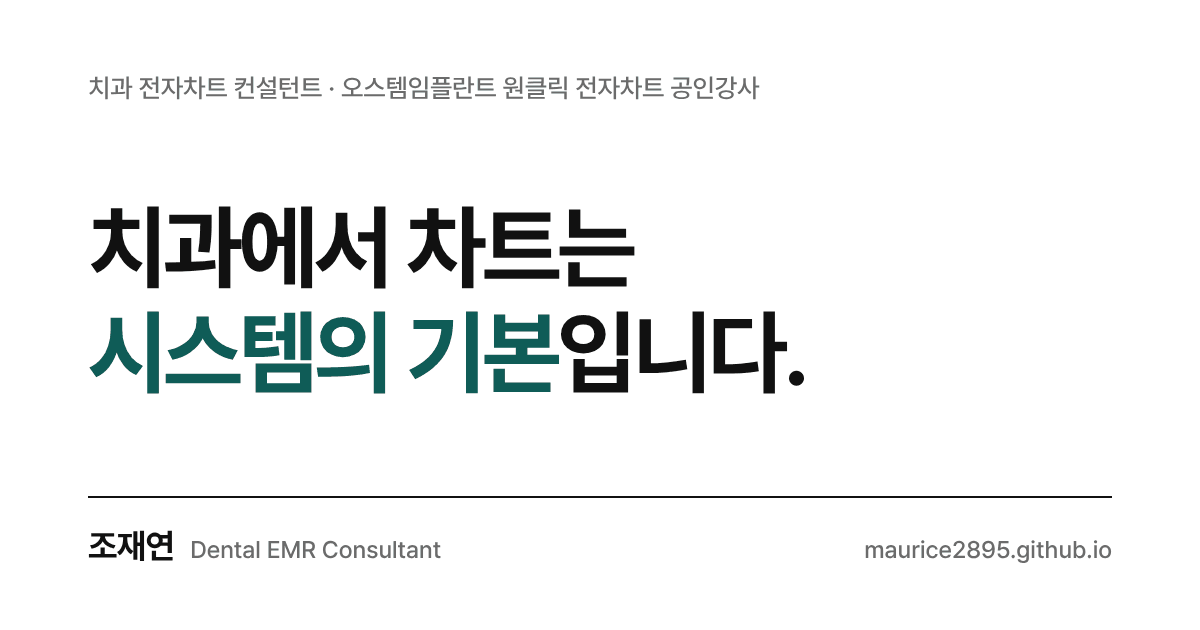
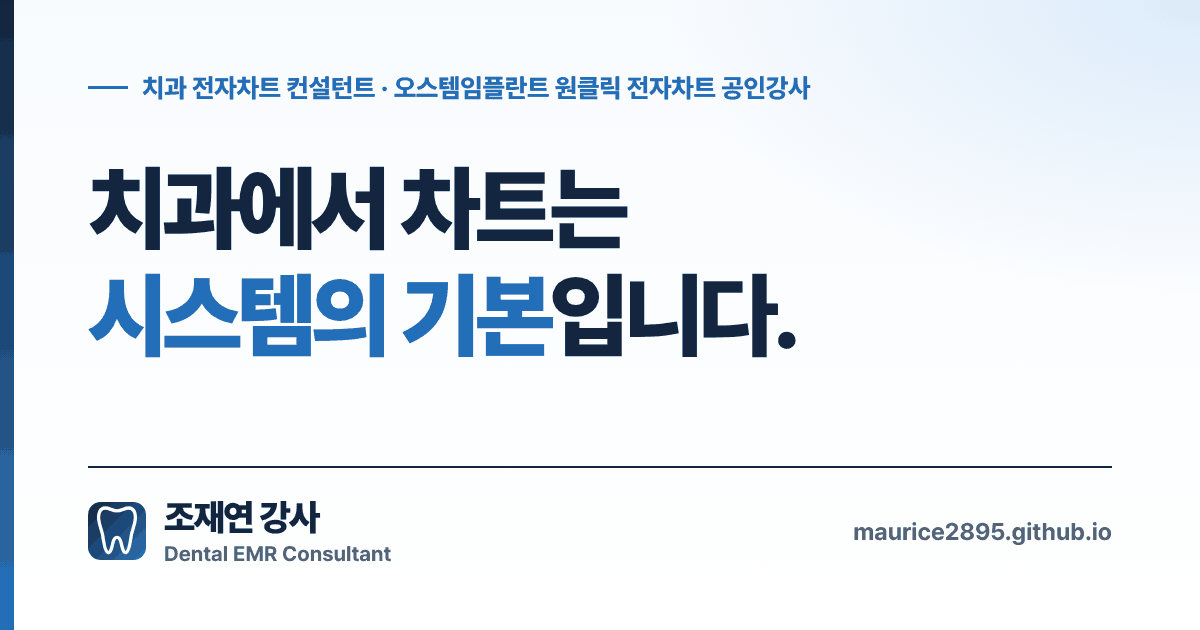
브랜드 아이콘·공유 이미지 통일, 외부 링크 정비, 홈 문구 보완

diff --git a/index.html b/index.html
@@ -19,19 +19,20 @@
 <meta property="og:url" content="https://maurice2895.github.io/">
 <meta property="og:title" content="조재연 강사 | 치과 전자차트 컨설턴트">
 <meta property="og:description" content="치과 총괄부장 실무 경험, 오스템임플란트 원클릭 전자차트 공인강사. 전자차트 · 직원 교육 · 업무 표준화 · AI 업무 활용.">
-<meta property="og:image" content="https://maurice2895.github.io/og-image.png">
+<meta property="og:image" content="https://maurice2895.github.io/og-image.png?v=20261102">
 <meta property="og:image:width" content="1200">
 <meta property="og:image:height" content="630">
 <meta property="og:image:alt" content="조재연 강사 — 치과 전자차트 컨설턴트 · 오스템임플란트 원클릭 전자차트 공인강사">
 <meta name="twitter:card" content="summary_large_image">
 <meta name="twitter:title" content="조재연 강사 | 치과 전자차트 컨설턴트">
 <meta name="twitter:description" content="치과 총괄부장 실무 경험, 오스템임플란트 원클릭 전자차트 공인강사. 전자차트 · 직원 교육 · 업무 표준화 · AI 업무 활용.">
-<meta name="twitter:image" content="https://maurice2895.github.io/og-image.png">
-<link rel="icon" href="/favicon-32.png" type="image/png" sizes="32x32">
+<meta name="twitter:image" content="https://maurice2895.github.io/og-image.png?v=20261102">
+<link rel="icon" href="/favicon.ico" sizes="any">
+<link rel="icon" href="/favicon.svg" type="image/svg+xml">
 <link rel="apple-touch-icon" href="/apple-touch-icon.png">
 <link rel="preconnect" href="https://cdn.jsdelivr.net" crossorigin>
 <link rel="stylesheet" href="https://cdn.jsdelivr.net/gh/orioncactus/pretendard@v1.3.9/dist/web/variable/pretendardvariable-dynamic-subset.min.css">
-<link rel="stylesheet" href="/site.css?v=202611012307">
+<link rel="stylesheet" href="/site.css?v=202611020057">
 <script type="application/ld+json">{
  "@context": "https://schema.org",
  "@graph": [
@@ -117,25 +118,25 @@
    "about": {
     "@id": "https://maurice2895.github.io/#person"
    },
-   "dateModified": "2026-11-01",
+   "dateModified": "2026-11-02",
    "primaryImageOfPage": {
     "@type": "ImageObject",
-    "url": "https://maurice2895.github.io/og-image.png",
+    "url": "https://maurice2895.github.io/og-image.png?v=20261102",
     "width": 1200,
     "height": 630
    }
   }
  ]
 }</script>
-<script src="/site.js?v=202611012307" defer></script>
-<script src="/security.js?v=202611012307" defer></script>
+<script src="/site.js?v=202611020057" defer></script>
+<script src="/security.js?v=202611020057" defer></script>
 </head>
 <body>
 <a class="skip-link" href="#main">본문 바로가기</a>
 <header class="header">
   <div class="wrap header-in">
     <a class="brand" href="/" aria-label="조재연 강사 홈">
-      <span class="brand-mark" aria-hidden="true">D</span>
+      <span class="brand-mark" aria-hidden="true"><svg viewBox="0 0 64 64" aria-hidden="true"><path d="M 19 6.6 C 13.8 6.6 11.2 11.8 11.72 18.3 C 12.24 24.8 14.32 28.7 15.88 35.2 C 17.44 43 17.96 53.4 21.6 55.48 C 24.72 57.3 26.28 50.8 27.32 45.6 C 28.36 40.92 29.92 39.1 32 39.1 C 34.08 39.1 35.64 40.92 36.68 45.6 C 37.72 50.8 39.28 57.3 42.4 55.48 C 46.04 53.4 46.56 43 48.12 35.2 C 49.68 28.7 51.76 24.8 52.28 18.3 C 52.8 11.8 50.2 6.6 45 6.6 C 40.32 6.6 37.2 9.72 32 9.72 C 26.8 9.72 23.68 6.6 19 6.6 Z"/></svg></span>
       <span class="brand-text"><strong>조재연 강사</strong><small>덴탈솔브 · 치과 전자차트 컨설팅</small></span>
     </a>
     <nav class="site-nav" id="site-nav" aria-label="주요 메뉴">
@@ -248,7 +249,7 @@
     <div class="signal-grid">
       <article class="signal"><span>01</span><strong>직원마다 차팅 방식이 다릅니다.</strong><p>같은 진료인데 기록 내용과 입력 순서가 달라집니다.</p></article>
       <article class="signal"><span>02</span><strong>필요한 처치 버튼을 찾기 어렵습니다.</strong><p>버튼이 많고 기준이 불분명해 입력 시간이 길어집니다.</p></article>
-      <article class="signal"><span>03</span><strong>남겨야 할 진료 기록이 빠집니다.</strong><p>처치 후 기록해야 할 항목이 직원마다 빠지거나 달라집니다.</p></article>
+      <article class="signal"><span>03</span><strong>진료 기록과 청구에서 누락이 생깁니다.</strong><p>처치 버튼과 실제 치료 술식이 맞지 않으면 차팅과 청구에서 빠지는 항목이 생깁니다.</p></article>
       <article class="signal"><span>04</span><strong>신규 직원 교육이 매번 달라집니다.</strong><p>누가 가르치는지에 따라 안내 내용과 업무 방식이 달라집니다.</p></article>
       <article class="signal"><span>05</span><strong>업무 자료가 여러 곳에 흩어져 있습니다.</strong><p>업무 일지, 재료 대장, 회의록과 교육자료를 찾는 데 시간이 듭니다.</p></article>
       <article class="signal"><span>06</span><strong>반복 문서 작성과 확인 업무가 많습니다.</strong><p>회의 정리, 안내문, 보고서 작성에 같은 작업을 반복합니다.</p></article>
@@ -400,9 +401,10 @@
       </article>
     </div>
     <div class="center-row">
-      <a class="btn" href="https://www.dentalbean.com/product/productDetail.aspx?_prKey=5093" target="_blank" rel="noopener noreferrer">덴탈빈 강의 상세 보기 <span class="arrow" aria-hidden="true">↗</span><span class="sr-only">(새 창)</span></a>
+      <a class="btn" href="https://www.dentalbean.com/product/productDetail.aspx?_prKey=5093" target="_blank" rel="noopener noreferrer">덴탈빈 온라인 강의 보기 <span class="arrow" aria-hidden="true">↗</span><span class="sr-only">(새 창)</span></a>
       <a class="btn btn-primary" href="https://open.kakao.com/o/sYHWsSLi" target="_blank" rel="noopener noreferrer">교육 문의하기 <span class="arrow" aria-hidden="true">↗</span><span class="sr-only">(새 창)</span></a>
     </div>
+    <p class="note center-note">덴탈빈 온라인 강의 「원클릭 전자차트 ‘매출과 효율’을 동시에 잡는 법」(총 5강). 상세 페이지가 열리지 않으면 덴탈빈 사이트에서 ‘원클릭’으로 검색해 주세요.</p>
   </div>
 </section>
 
@@ -416,13 +418,13 @@
       </div>
     </div>
     <div class="resource-grid">
-      <a class="resource" href="https://software.denall.com/" target="_blank" rel="noopener noreferrer">
+      <a class="resource" href="https://software.denall.com/manual" target="_blank" rel="noopener noreferrer">
         <span class="resource-logo"><img src="/images/oneclick-logo.webp" alt="오스템 원클릭 로고" width="260" height="119" loading="lazy" decoding="async"></span>
         <div>
           <span class="lecture-tag">ONECLICK · OFFICIAL GUIDE</span>
           <h3>원클릭 전자차트 매뉴얼</h3>
-          <p>원클릭 전자차트의 공식 사이트에서 기능과 사용 안내를 확인하세요.</p>
-          <span class="card-link">매뉴얼 사이트 열기 ↗<span class="sr-only">(새 창)</span></span>
+          <p>오스템임플란트 소프트웨어 사이트의 매뉴얼 게시판에서 원클릭 튜토리얼과 사용 안내를 확인하세요.</p>
+          <span class="card-link">매뉴얼 게시판 열기 ↗<span class="sr-only">(새 창)</span></span>
         </div>
       </a>
       <a class="resource" href="https://www.dentweb.co.kr/Home/Tutorial" target="_blank" rel="noopener noreferrer">
@@ -430,8 +432,8 @@
         <div>
           <span class="lecture-tag">DENTWEB · TUTORIAL</span>
           <h3>덴트웹 전자차트 매뉴얼</h3>
-          <p>덴트웹 전자차트의 기능별 사용 방법과 튜토리얼을 확인하세요.</p>
-          <span class="card-link">매뉴얼 바로가기 ↗<span class="sr-only">(새 창)</span></span>
+          <p>덴트웹 사이트에서 동영상 설명서와 문서 설명서를 확인하세요.</p>
+          <span class="card-link">설명서 바로가기 ↗<span class="sr-only">(새 창)</span></span>
         </div>
       </a>
     </div>
@@ -479,7 +481,7 @@
     <div class="footer-grid">
       <div>
         <a class="brand" href="/" aria-label="조재연 강사 홈">
-          <span class="brand-mark" aria-hidden="true">D</span>
+          <span class="brand-mark" aria-hidden="true"><svg viewBox="0 0 64 64" aria-hidden="true"><path d="M 19 6.6 C 13.8 6.6 11.2 11.8 11.72 18.3 C 12.24 24.8 14.32 28.7 15.88 35.2 C 17.44 43 17.96 53.4 21.6 55.48 C 24.72 57.3 26.28 50.8 27.32 45.6 C 28.36 40.92 29.92 39.1 32 39.1 C 34.08 39.1 35.64 40.92 36.68 45.6 C 37.72 50.8 39.28 57.3 42.4 55.48 C 46.04 53.4 46.56 43 48.12 35.2 C 49.68 28.7 51.76 24.8 52.28 18.3 C 52.8 11.8 50.2 6.6 45 6.6 C 40.32 6.6 37.2 9.72 32 9.72 C 26.8 9.72 23.68 6.6 19 6.6 Z"/></svg></span>
           <span class="brand-text"><strong>조재연 강사</strong><small>덴탈솔브 · DENTAL SYSTEM SOLUTION</small></span>
         </a>
         <p class="footer-desc">치과 총괄부장 실무 경험을 바탕으로 치과 전자차트 컨설팅, 직원 교육, 업무 표준화, AI 업무 활용을 돕습니다. 오스템임플란트 원클릭 전자차트 공인강사.</p>

diff --git a/404.html b/404.html
@@ -9,20 +9,21 @@
 <meta name="theme-color" content="#ffffff">
 <meta name="referrer" content="strict-origin-when-cross-origin">
 <meta name="format-detection" content="telephone=no">
-<link rel="icon" href="/favicon-32.png" type="image/png" sizes="32x32">
+<link rel="icon" href="/favicon.ico" sizes="any">
+<link rel="icon" href="/favicon.svg" type="image/svg+xml">
 <link rel="apple-touch-icon" href="/apple-touch-icon.png">
 <link rel="preconnect" href="https://cdn.jsdelivr.net" crossorigin>
 <link rel="stylesheet" href="https://cdn.jsdelivr.net/gh/orioncactus/pretendard@v1.3.9/dist/web/variable/pretendardvariable-dynamic-subset.min.css">
-<link rel="stylesheet" href="/site.css?v=202611012307">
-<script src="/site.js?v=202611012307" defer></script>
-<script src="/security.js?v=202611012307" defer></script>
+<link rel="stylesheet" href="/site.css?v=202611020057">
+<script src="/site.js?v=202611020057" defer></script>
+<script src="/security.js?v=202611020057" defer></script>
 </head>
 <body>
 <a class="skip-link" href="#main">본문 바로가기</a>
 <header class="header">
   <div class="wrap header-in">
     <a class="brand" href="/" aria-label="조재연 강사 홈">
-      <span class="brand-mark" aria-hidden="true">D</span>
+      <span class="brand-mark" aria-hidden="true"><svg viewBox="0 0 64 64" aria-hidden="true"><path d="M 19 6.6 C 13.8 6.6 11.2 11.8 11.72 18.3 C 12.24 24.8 14.32 28.7 15.88 35.2 C 17.44 43 17.96 53.4 21.6 55.48 C 24.72 57.3 26.28 50.8 27.32 45.6 C 28.36 40.92 29.92 39.1 32 39.1 C 34.08 39.1 35.64 40.92 36.68 45.6 C 37.72 50.8 39.28 57.3 42.4 55.48 C 46.04 53.4 46.56 43 48.12 35.2 C 49.68 28.7 51.76 24.8 52.28 18.3 C 52.8 11.8 50.2 6.6 45 6.6 C 40.32 6.6 37.2 9.72 32 9.72 C 26.8 9.72 23.68 6.6 19 6.6 Z"/></svg></span>
       <span class="brand-text"><strong>조재연 강사</strong><small>덴탈솔브 · 치과 전자차트 컨설팅</small></span>
     </a>
     <nav class="site-nav" id="site-nav" aria-label="주요 메뉴">
@@ -53,7 +54,7 @@
     <div class="footer-grid">
       <div>
         <a class="brand" href="/" aria-label="조재연 강사 홈">
-          <span class="brand-mark" aria-hidden="true">D</span>
+          <span class="brand-mark" aria-hidden="true"><svg viewBox="0 0 64 64" aria-hidden="true"><path d="M 19 6.6 C 13.8 6.6 11.2 11.8 11.72 18.3 C 12.24 24.8 14.32 28.7 15.88 35.2 C 17.44 43 17.96 53.4 21.6 55.48 C 24.72 57.3 26.28 50.8 27.32 45.6 C 28.36 40.92 29.92 39.1 32 39.1 C 34.08 39.1 35.64 40.92 36.68 45.6 C 37.72 50.8 39.28 57.3 42.4 55.48 C 46.04 53.4 46.56 43 48.12 35.2 C 49.68 28.7 51.76 24.8 52.28 18.3 C 52.8 11.8 50.2 6.6 45 6.6 C 40.32 6.6 37.2 9.72 32 9.72 C 26.8 9.72 23.68 6.6 19 6.6 Z"/></svg></span>
           <span class="brand-text"><strong>조재연 강사</strong><small>덴탈솔브 · DENTAL SYSTEM SOLUTION</small></span>
         </a>
         <p class="footer-desc">치과 총괄부장 실무 경험을 바탕으로 치과 전자차트 컨설팅, 직원 교육, 업무 표준화, AI 업무 활용을 돕습니다. 오스템임플란트 원클릭 전자차트 공인강사.</p>

diff --git a/site.css b/site.css
@@ -366,3 +366,6 @@ html.protect img{-webkit-user-drag:none}
   html.protect body::before{content:"이 페이지는 인쇄가 제한되어 있습니다. © 조재연 강사 · maurice2895.github.io";display:block;padding:40px;font-size:16px;color:#000}
 }
 .page-hero .actions{margin-top:32px}
+.center-note{text-align:center}
+.brand-mark svg{width:24px;height:24px;fill:none;stroke:#fff;stroke-width:3.6;stroke-linejoin:round}
+@media (max-width:720px){.brand-mark svg{width:21px;height:21px}}
